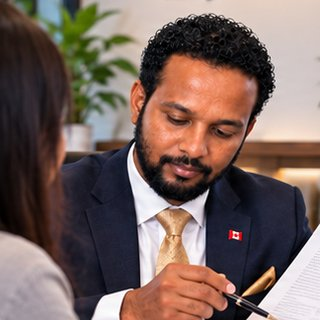
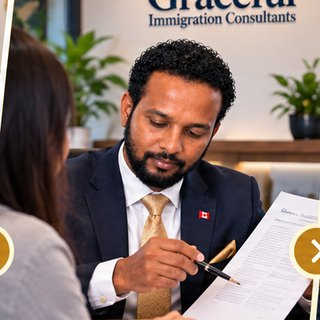
Journey steps: recrop photos to show client with consultant

diff --git a/public/index.html b/public/index.html
@@ -247,27 +247,27 @@
     </div>
     <ol class="journey">
       <li class="jstep reveal" style="--d:0.00s">
-        <div class="jphoto"><img src="img/step-1.jpg" alt="Graceful consultant — Consult step" width="320" height="320" loading="lazy">
+        <div class="jphoto"><img src="img/step-1.jpg?v=2" alt="Consultant meeting with a client — Consult step" width="320" height="320" loading="lazy">
           <span class="jnum">1</span><span class="jicon"><svg><use href="#i-chat"/></svg></span></div>
         <h3>Consult</h3><p>Discuss your goals and explore your options with a licensed consultant.</p>
       </li>
       <li class="jstep reveal" style="--d:0.12s">
-        <div class="jphoto"><img src="img/step-2.jpg" alt="Graceful consultant — Plan step" width="320" height="320" loading="lazy">
+        <div class="jphoto"><img src="img/step-2.jpg?v=2" alt="Consultant meeting with a client — Plan step" width="320" height="320" loading="lazy">
           <span class="jnum">2</span><span class="jicon"><svg><use href="#i-clipboard"/></svg></span></div>
         <h3>Plan</h3><p>Receive a personalized strategy and a clear written agreement.</p>
       </li>
       <li class="jstep reveal" style="--d:0.24s">
-        <div class="jphoto"><img src="img/step-3.jpg" alt="Graceful consultant — Prepare step" width="320" height="320" loading="lazy">
+        <div class="jphoto"><img src="img/step-3.jpg?v=2" alt="Consultant meeting with a client — Prepare step" width="320" height="320" loading="lazy">
           <span class="jnum">3</span><span class="jicon"><svg><use href="#i-file"/></svg></span></div>
         <h3>Prepare</h3><p>We gather, review and prepare every form and document with care.</p>
       </li>
       <li class="jstep reveal" style="--d:0.36s">
-        <div class="jphoto"><img src="img/step-4.jpg" alt="Graceful consultant — Apply step" width="320" height="320" loading="lazy">
+        <div class="jphoto"><img src="img/step-4.jpg?v=2" alt="Consultant meeting with a client — Apply step" width="320" height="320" loading="lazy">
           <span class="jnum">4</span><span class="jicon"><svg><use href="#i-send"/></svg></span></div>
         <h3>Apply</h3><p>We submit your application and track it through to a decision.</p>
       </li>
       <li class="jstep reveal" style="--d:0.48s">
-        <div class="jphoto"><img src="img/step-5.jpg" alt="Graceful consultant — Decision step" width="320" height="320" loading="lazy">
+        <div class="jphoto"><img src="img/step-5.jpg?v=2" alt="Consultant meeting with a client — Decision step" width="320" height="320" loading="lazy">
           <span class="jnum">5</span><span class="jicon"><svg><use href="#i-users"/></svg></span></div>
         <h3>Decision</h3><p>We share IRCC&rsquo;s decision with you and guide your next steps.</p>
       </li>
